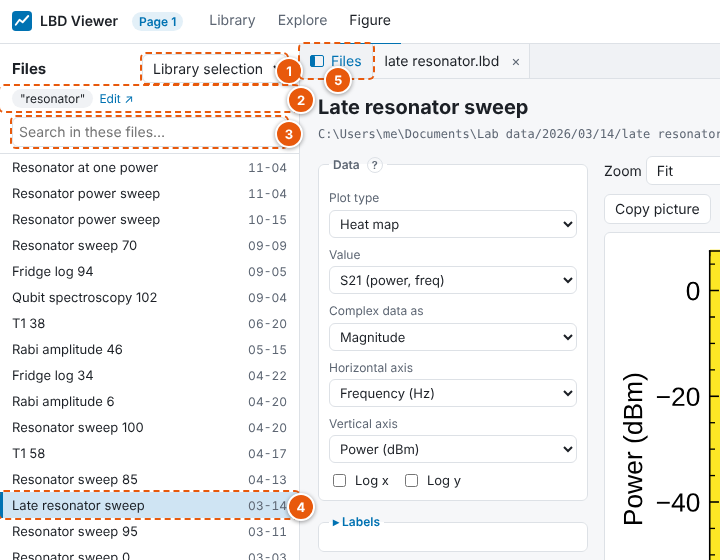
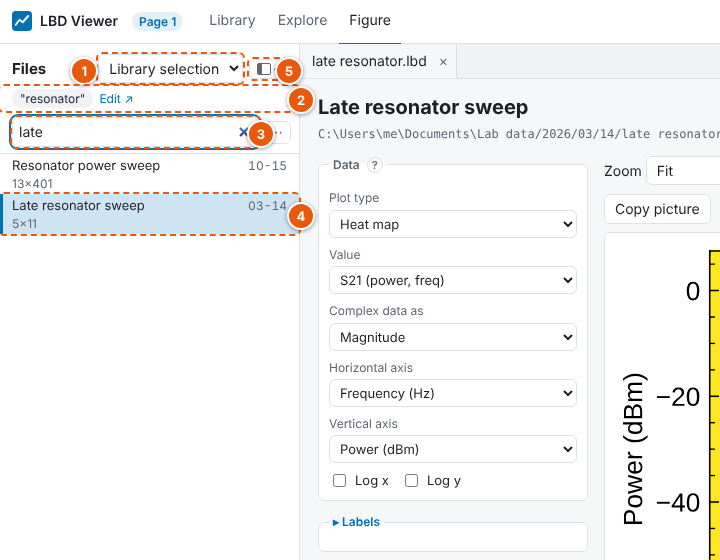
Docs screenshots: the new right pane, label trees, toggles and data-only previews
All screenshots made again (one shot per process). The Library shot gives a few
files labels first; the Files sidebar shot narrows its list to the file shown.

Claude-Session: https://claude.ai/code/session_01Mh9PuDJKtKVYz8DgGjk5wf

diff --git a/scripts/make_screenshots.py b/scripts/make_screenshots.py
@@ -476,12 +476,15 @@ def files_sidebar(page: Page, url: str, ctx) -> None:
     row.dblclick()                                       # in Figure: plotted (a click shows what is inside)
     page.locator(".tab-body:not([hidden]) .figure img").first.wait_for()
     settle(page)
+    page.locator(".sidebar").get_by_label("Search in these files").fill("late")   # narrows the sidebar only
+    page.locator(".sidebar .files-row.active").wait_for()
+    page.wait_for_timeout(400)
     mark(page, [
-        (1, ".sidebar .files-scope", 0, "r"),
+        (1, ".sidebar .files-scope", 0, "L"),
         (2, ".sidebar .files-filters", 0, "r"),
         (3, ".sidebar .filter", 0, "r"),
         (4, ".sidebar .files-row.active", 0, "r"),
-        (5, ".sidebar .sidebar-toggle", 0, "b"),
+        (5, ".sidebar .sidebar-toggle", 0, "r"),
     ])
     save(page, VIEWER_IMG / "files-sidebar.png", clip={"x": 0, "y": 0, "width": 720, "height": 560})
 
